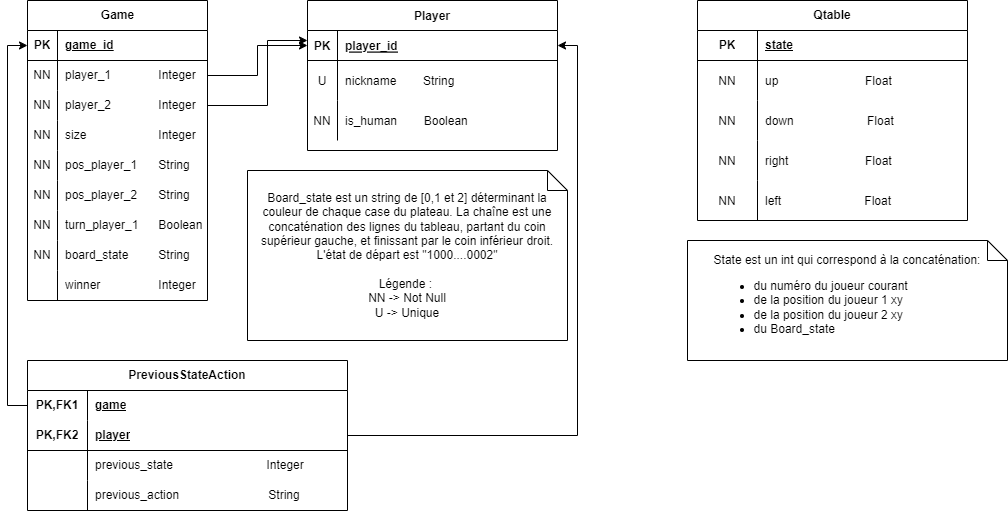
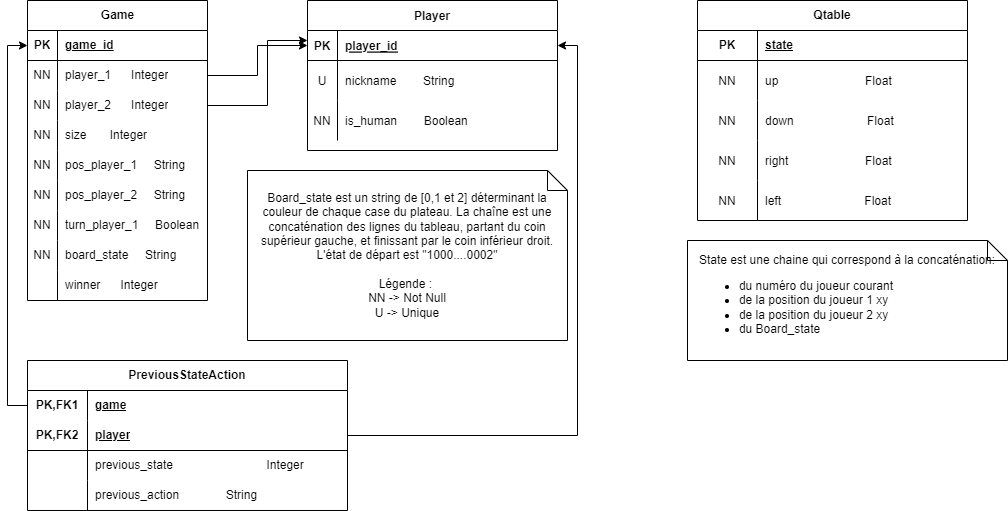
debug ok a tester et verif clean code

Changed region(s): [[0.6766, 0.499, 0.9841, 0.6751], [0.123, 0.1174, 0.2153, 0.5871], [0.2153, 0.9393, 0.3075, 0.998]]

diff --git a/BLOCKADE/ai.py b/BLOCKADE/ai.py
@@ -38,7 +38,7 @@ def possible_move(game, player_id):
         if((0 <= new_x < size) and (0 <= new_y < size)): 
             target_square = board_state[new_x * size + new_y]
             if(target_square == "0" or target_square == current_player):
-                possible_move.append(move)
+                possible_move.append(move.lower())
     return possible_move
 
 def get_move(game, player_id):
@@ -60,7 +60,6 @@ def get_move(game, player_id):
         current_player_number = 1 if player_id == game.player_1.player_id else 2
         update_q_table(previous_state_move, current_state, current_player_number)
     else:
-        # changer previous_state car int trop petit
         previous_state_move = PreviousStateAction(
             game_id=game.game_id,
             player_id=player_id,
@@ -74,7 +73,7 @@ def get_move(game, player_id):
     previous_state_move.previous_state = current_state
     previous_state_move.previous_action = move
     db.session.commit()
-    return "Arrow" + move
+    return "Arrow" + move.capitalize()
 
 def explore(game, player_id):
     """
@@ -108,7 +107,7 @@ def exploit(game, player_id, current_state):
         best_value = -float('inf')
         directions = possible_move(game, player_id)
         for direction in directions:
-            value = value_state[direction]
+            value = getattr(value_state, direction)
             if (value > best_value):
                 best_value = value
                 best_action = direction
@@ -130,9 +129,7 @@ def state(game):
     pos_player_1 = game.pos_player_1.replace(',', '')
     pos_player_2 = game.pos_player_2.replace(',', '')
 
-    state_str = f"{current_player}{pos_player_1}{pos_player_2}{game.board_state}"
-
-    return int(state_str)
+    return f"{current_player}{pos_player_1}{pos_player_2}{game.board_state}"
 
 
 def update_q_table(previous_state_move, current_state, current_player_number):
@@ -150,12 +147,11 @@ def update_q_table(previous_state_move, current_state, current_player_number):
     learning_rate = config.LEARNING_RATE 
     discount_factor = config.DISCOUNT_FACTOR 
 
-    previous_boardstate = str(previous_state_move.previous_state)[5:]
-    current_boardstate = str(current_state.previous_state)[5:]
+    previous_boardstate = previous_state_move.previous_state[5:]
+    current_boardstate = current_state[5:]
     
     reward = calculate_reward(previous_boardstate, current_boardstate, current_player_number)  
     
-    #ajout etat non renconter
     if  not db.session.query(Qtable).get(previous_state_move.previous_state):
         new_entry = Qtable(state=previous_state_move.previous_state)
         db.session.add(new_entry)
@@ -165,14 +161,18 @@ def update_q_table(previous_state_move, current_state, current_player_number):
     
     action = previous_state_move.previous_action
 
-    current_q_value = db.session.query(Qtable).get(previous_state_move.previous_state)[action]
+    q_table_entry = db.session.query(Qtable).get(previous_state_move.previous_state)
+    current_q_value = getattr(q_table_entry, action)
 
-    max_future_q_value = max(db.session.query(Qtable).get(current_state).values())
+    future_q_table_entry = db.session.query(Qtable).get(current_state)
+    
+    max_future_q_value = max(future_q_table_entry.up, future_q_table_entry.down, 
+                              future_q_table_entry.left, future_q_table_entry.right)
 
     new_q_value = current_q_value + learning_rate * (reward + discount_factor * max_future_q_value - current_q_value)
 
     q_table_entry = db.session.query(Qtable).get(previous_state_move.previous_state)
-    q_table_entry[action] = new_q_value
+    setattr(q_table_entry, action, new_q_value)
     db.session.commit()
 
 def calculate_reward(previous_boardstate, current_boardstate, current_player_nb):

diff --git a/BLOCKADE/app_models/models.py b/BLOCKADE/app_models/models.py
@@ -13,7 +13,7 @@ def init_db():
 class Qtable(db.Model):
     __tablename__ = 'qtable'
 
-    state = db.Column(db.Integer, primary_key=True)
+    state = db.Column(db.String(30), primary_key=True)
     up = db.Column(db.Float, nullable=False)
     down = db.Column(db.Float, nullable=False)
     right = db.Column(db.Float, nullable=False)
@@ -31,7 +31,7 @@ class PreviousStateAction(db.Model) :
 
     game_id = db.Column(db.Integer, db.ForeignKey('games.game_id'), primary_key=True)
     player_id = db.Column(db.Integer, db.ForeignKey('players.player_id'), primary_key=True)
-    previous_state = db.Column(db.Integer)
+    previous_state = db.Column(db.String(30))
     previous_action = db.Column(db.String(10))
 
     player = db.relationship("Player", foreign_keys=[player_id], back_populates="previous_state_action")
